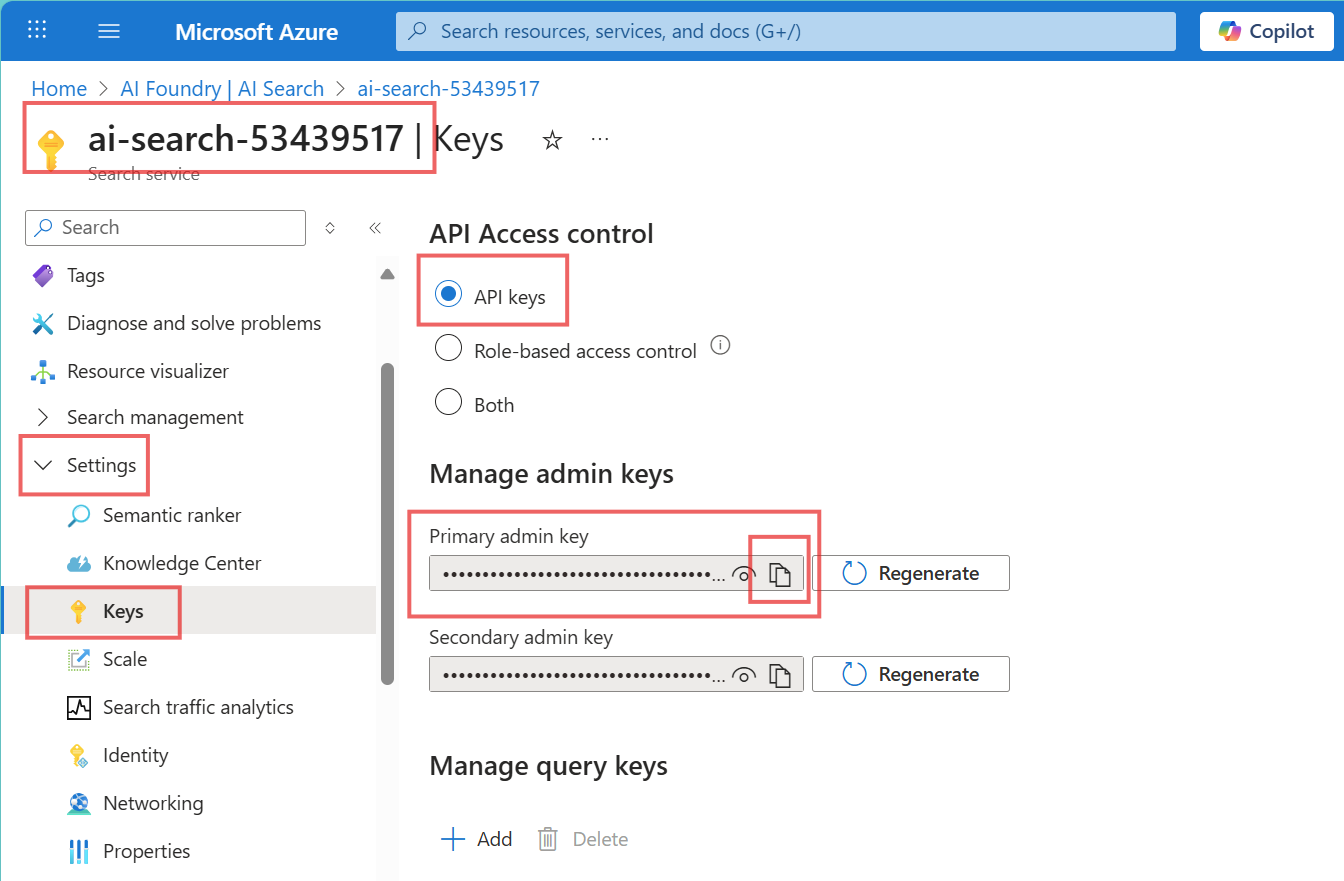
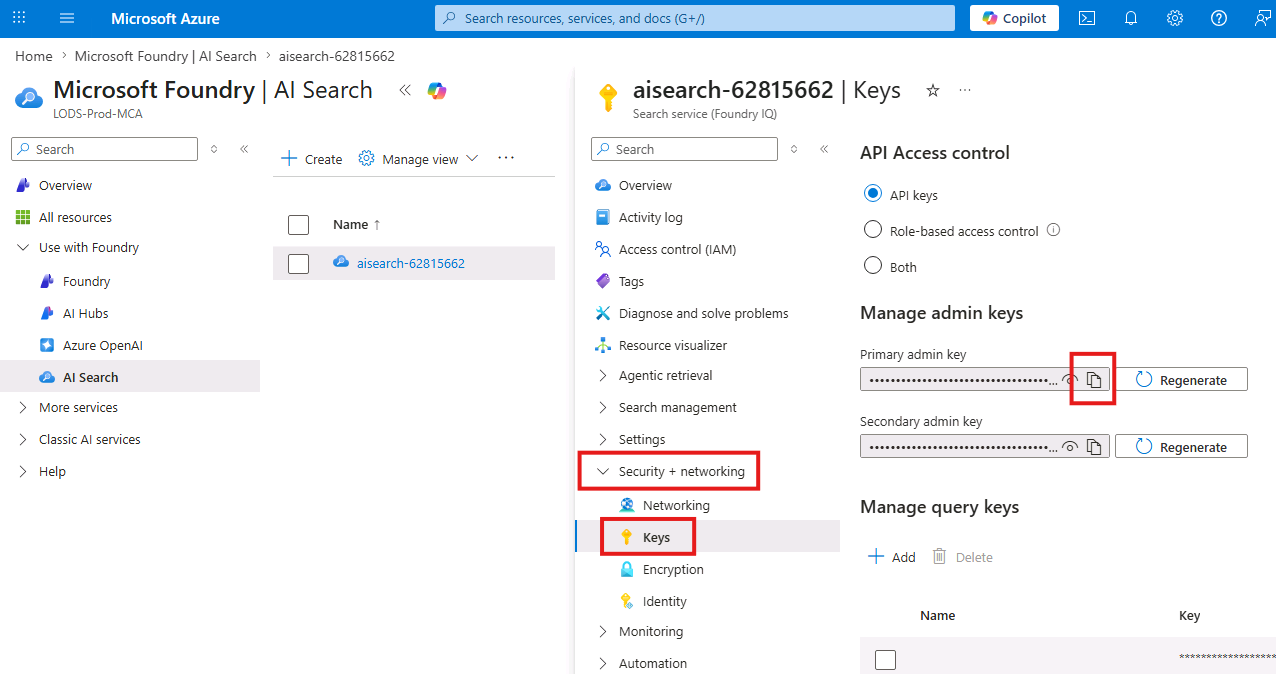
updating issues from bug 758099

diff --git a/Lab 00 - Prequisite - AI Foundry Resource Creation/02-Deploy-Models.md b/Lab 00 - Prequisite - AI Foundry Resource Creation/02-Deploy-Models.md
@@ -25,12 +25,16 @@ You are deploying models that will be utilized later in the labs for several mod
 
 Make sure you are using the legacy Microsoft Foundry UI.
 
-- If the following UI is shown
-![New Foundry UI](images/ai_foundry_new_ui.png)
+- If this is the first Portal view in the **Foundry Portal**, then click **firstProject** inside the **All resources** section.
+    ![New Foundry UI](images/ai_foundry_new_ui_3.png)
 
-- Change the UI to the legacy UI by clicking the **New Foundry** switch
-![New Foundry UI](images/ai_foundry_new_ui_2.png)
+- If the following Microsoft Foundry UI(User Interface) is shown:
+    ![New Foundry UI](images/ai_foundry_new_ui.png)
 
+- Change the UI to the legacy UI by clicking the **New Foundry** switch:
+    ![New Foundry UI](images/ai_foundry_new_ui_2.png)
+
+- If the feedback popups is displayed, click **Continue without feedback**.
 
 ## 🛠 Tasks
 

diff --git a/Lab 00 - Prequisite - AI Foundry Resource Creation/05-Setup-(dot)env-file.md b/Lab 00 - Prequisite - AI Foundry Resource Creation/05-Setup-(dot)env-file.md
@@ -119,11 +119,11 @@ Complete the prerequisites Lab exercises
 - [ ] Click on the name
 - [ ] Next screen, In the Overview section, find the **Url** as shown in below screenshot
 - [ ] Copy and paste into .env file as the value for AZURE_AI_SEARCH_ENDPOINT
-![Go to project](images/aisearchurl.png)
-- [ ] On the left side Menu, expand **Settings**
+  ![Go to project](images/aisearchurl.png)
+- [ ] On the left side Menu, expand **Security + networking**
 - [ ] Click **Keys**
 - [ ] Copy the key as shown in the screenshot for this Lab, and paste into .env file as the value for AZURE_AI_SEARCH_API_KEY
-![Go to project](images/aisearchapikey.png)
+  ![Go to project](images/aisearchapikey.png)
 
 ### 9. Set the values for the COSMOS_ENDPOINT and COSMOS_KEY variables
 
